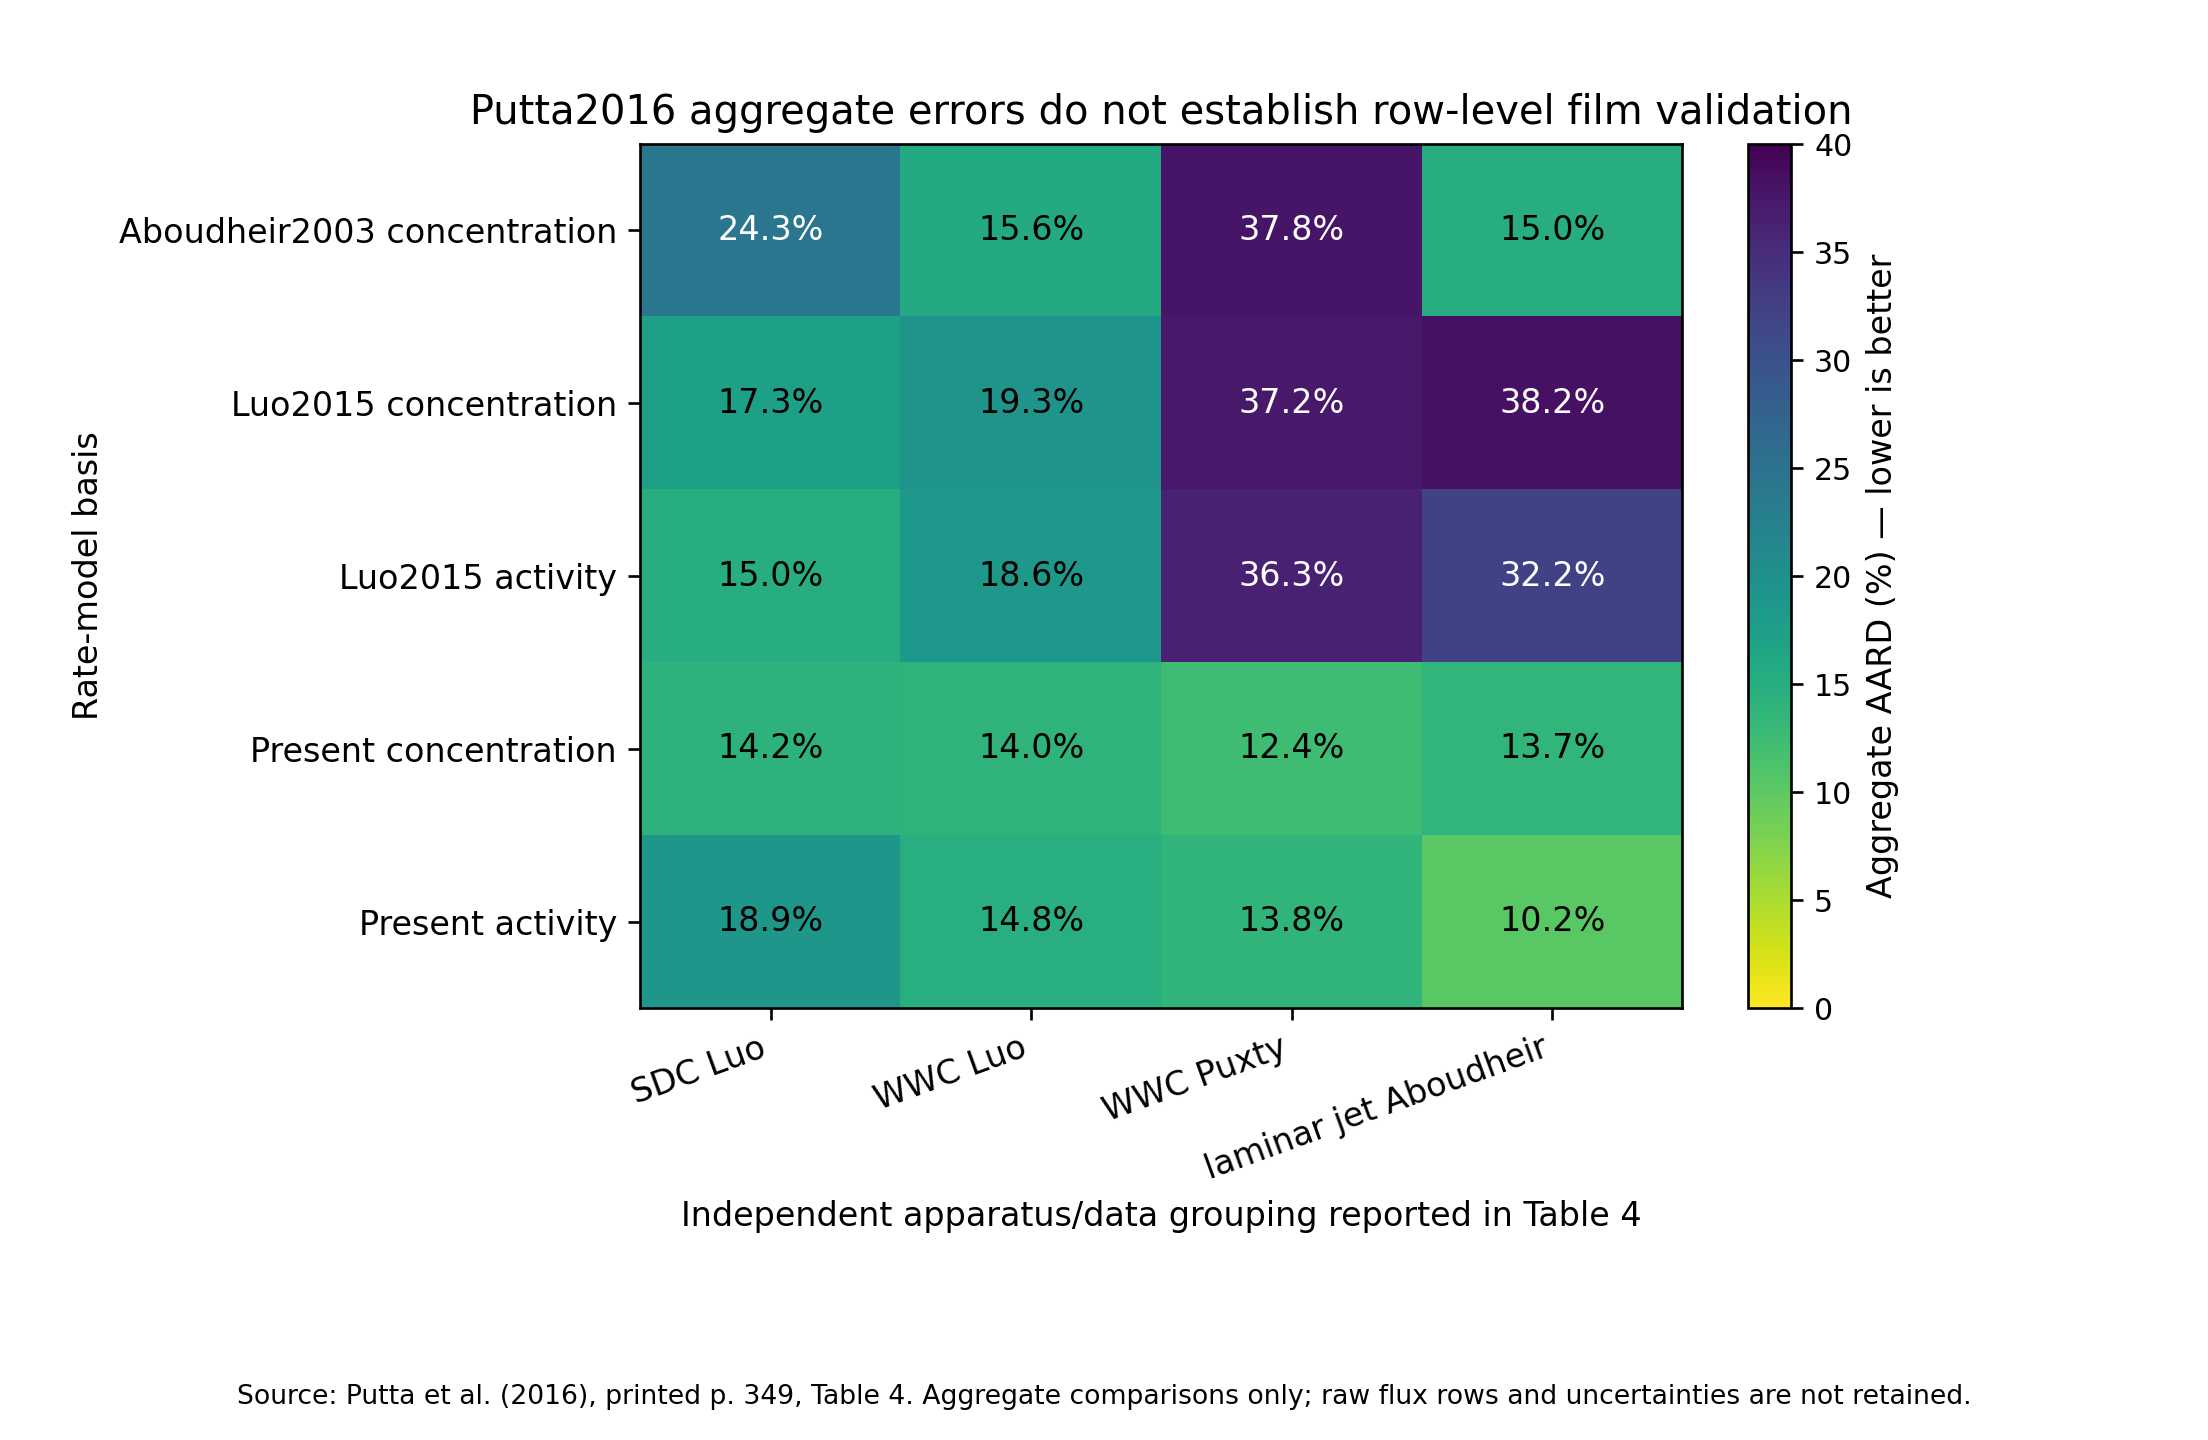
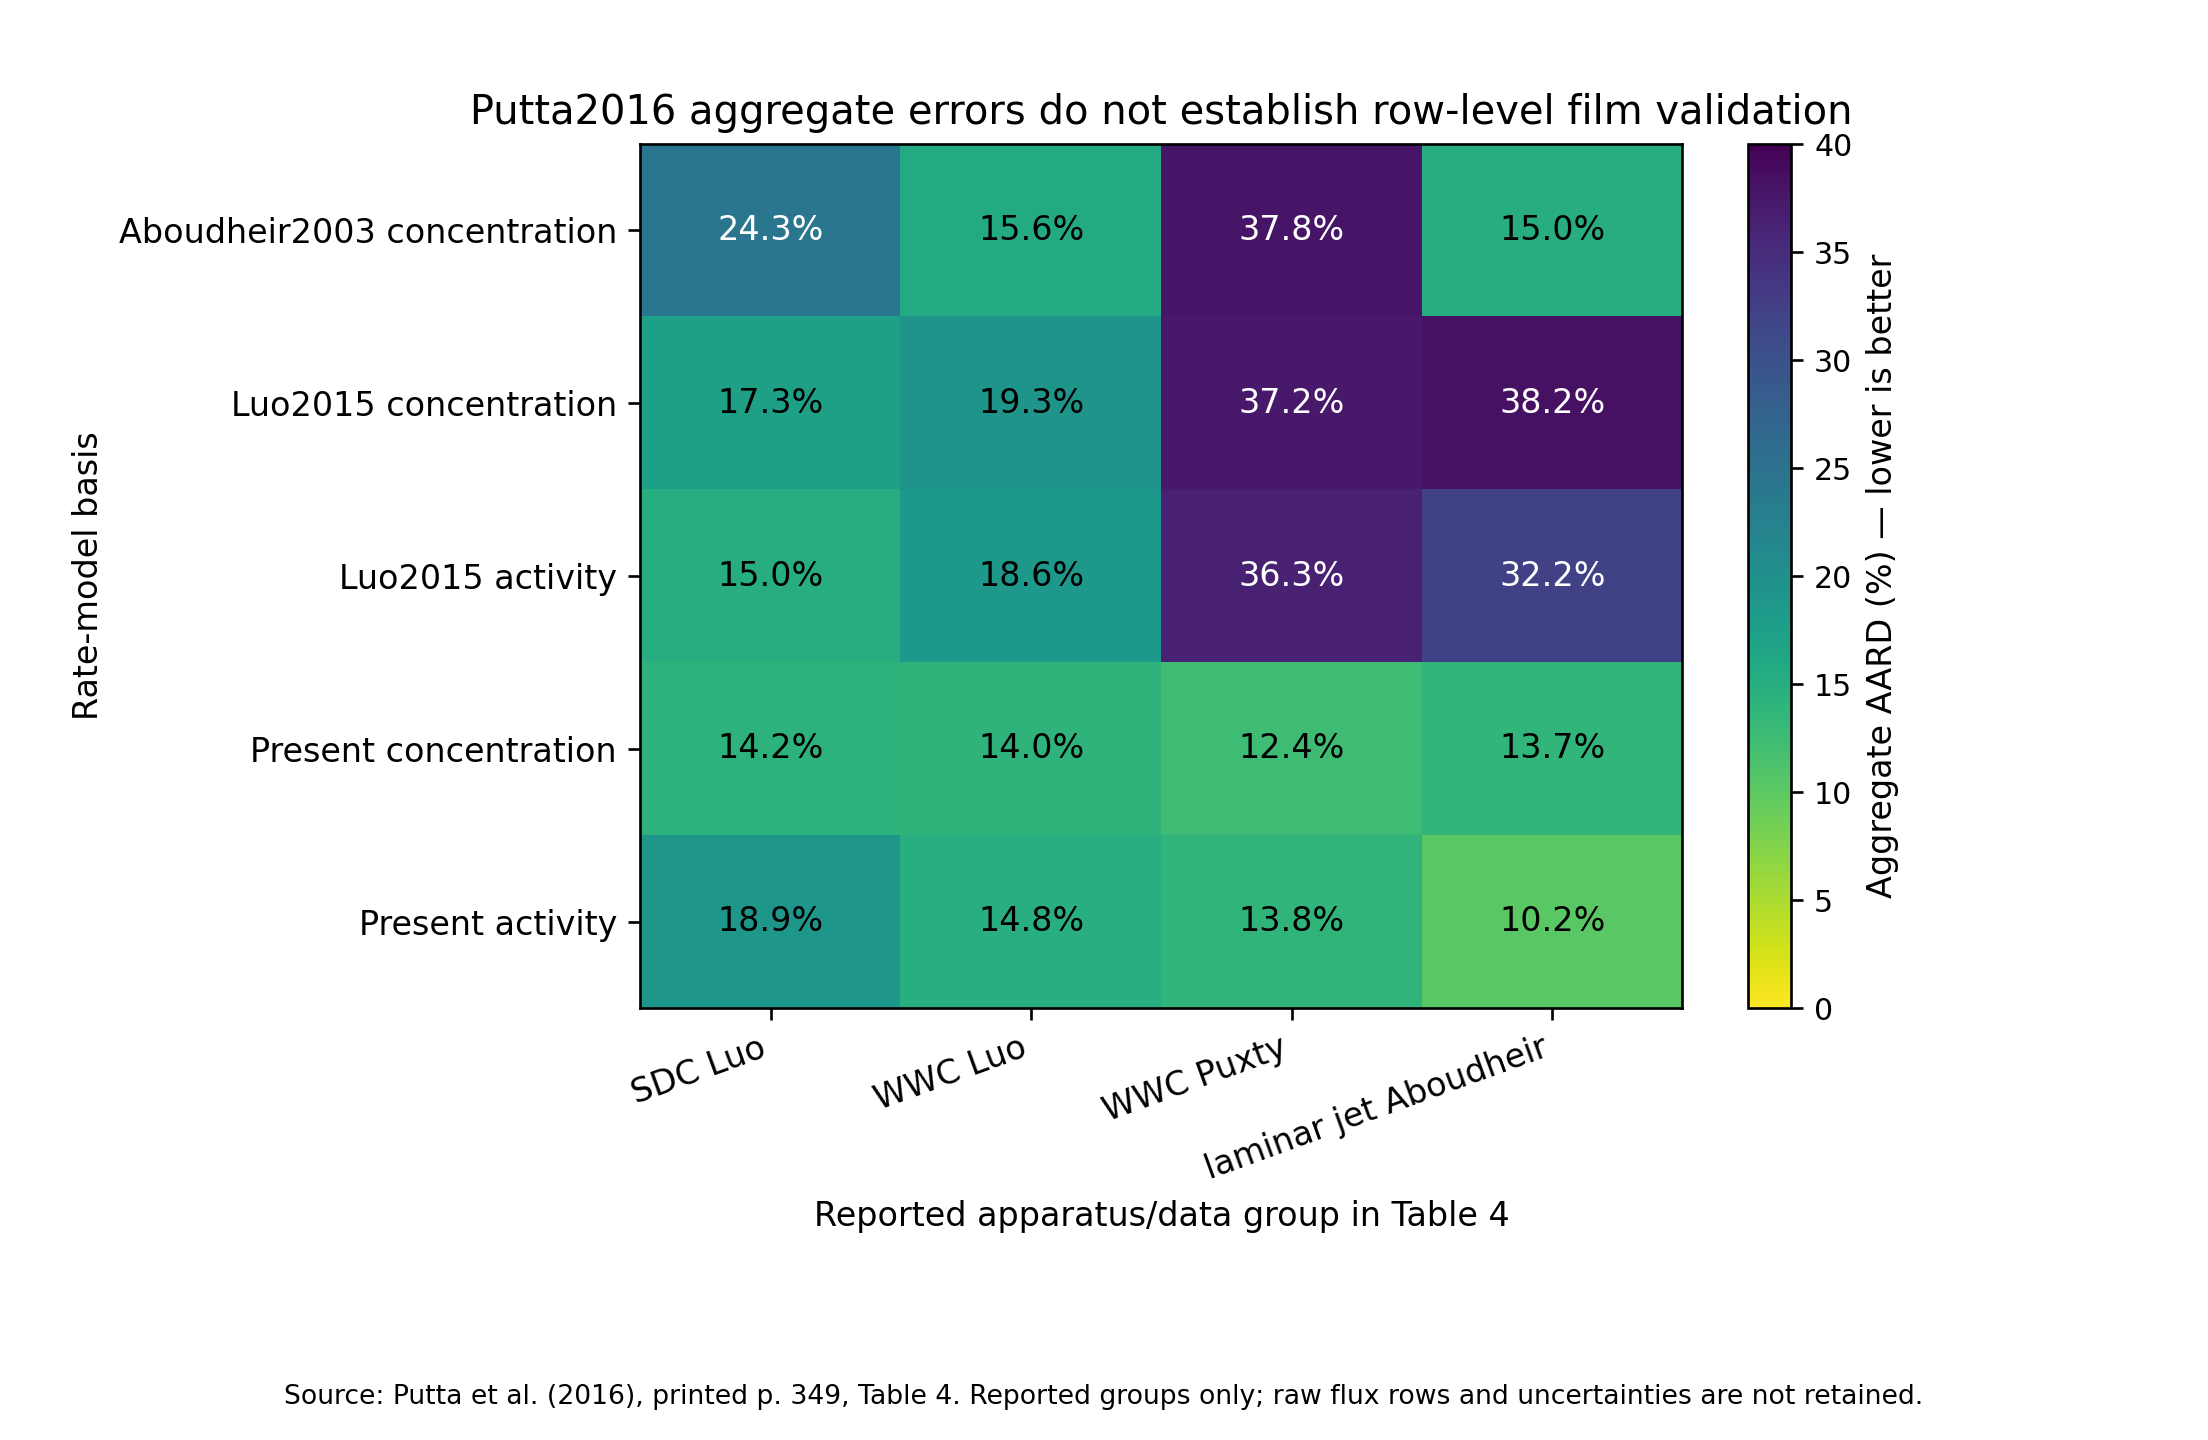
Correct reactive-film evidence provenance

Changed region(s): [[0.125, 0.9375, 0.875, 1.0], [0.3125, 0.8125, 0.7188, 0.875]]

diff --git a/analyses/reactive_film_evidence/scripts/render_putta2016_aard.py b/analyses/reactive_film_evidence/scripts/render_putta2016_aard.py
@@ -21,7 +21,7 @@ MODELS = [
     "Present concentration",
     "Present activity",
 ]
-APPARATUSES = ["SDC Luo", "WWC Luo", "WWC Puxty", "laminar jet Aboudheir"]
+DATA_GROUPS = ["SDC Luo", "WWC Luo", "WWC Puxty", "laminar jet Aboudheir"]
 
 
 def main() -> None:
@@ -34,7 +34,6 @@ def main() -> None:
         raise AssertionError("aggregate evidence must not be relabeled as row-level validation")
 
     by_key = {(row["model"], row["apparatus_or_dataset"]): float(row["value"]) for row in rows}
-    matrix = [[by_key[(model, apparatus)] for apparatus in APPARATUSES] for model in MODELS]
 
     PLOT_DATA.parent.mkdir(parents=True, exist_ok=True)
     FIGURE.parent.mkdir(parents=True, exist_ok=True)
@@ -42,10 +41,11 @@ def main() -> None:
         writer = csv.DictWriter(
             stream,
             fieldnames=["model", "apparatus_or_dataset", "AARD_percent", "source_locator", "evidence_scope"],
+            lineterminator="\n",
         )
         writer.writeheader()
         for model in MODELS:
-            for apparatus in APPARATUSES:
+            for apparatus in DATA_GROUPS:
                 writer.writerow(
                     {
                         "model": model,
@@ -56,13 +56,25 @@ def main() -> None:
                     }
                 )
 
+    expected = {
+        (model, data_group): f"{by_key[(model, data_group)]:.1f}"
+        for model in MODELS
+        for data_group in DATA_GROUPS
+    }
+    with PLOT_DATA.open(newline="") as stream:
+        plotted = list(csv.DictReader(stream))
+    actual = {(row["model"], row["apparatus_or_dataset"]): row["AARD_percent"] for row in plotted}
+    if len(plotted) != 20 or actual != expected:
+        raise AssertionError("plot CSV must retain the exact 20 Table 4 cells")
+    matrix = [[float(actual[(model, data_group)]) for data_group in DATA_GROUPS] for model in MODELS]
+
     fig, ax = plt.subplots(figsize=(9.2, 6.0))
     fig.subplots_adjust(left=0.29, right=0.88, bottom=0.30, top=0.90)
     image = ax.imshow(matrix, cmap="viridis_r", vmin=0, vmax=40, aspect="auto")
-    ax.set_xticks(range(len(APPARATUSES)), APPARATUSES, rotation=20, ha="right")
+    ax.set_xticks(range(len(DATA_GROUPS)), DATA_GROUPS, rotation=20, ha="right")
     ax.set_yticks(range(len(MODELS)), MODELS)
     ax.set_title("Putta2016 aggregate errors do not establish row-level film validation")
-    ax.set_xlabel("Independent apparatus/data grouping reported in Table 4")
+    ax.set_xlabel("Reported apparatus/data group in Table 4")
     ax.set_ylabel("Rate-model basis")
     for y, values in enumerate(matrix):
         for x, value in enumerate(values):
@@ -72,7 +84,7 @@ def main() -> None:
     fig.text(
         0.5,
         0.025,
-        "Source: Putta et al. (2016), printed p. 349, Table 4. Aggregate comparisons only; raw flux rows and uncertainties are not retained.",
+        "Source: Putta et al. (2016), printed p. 349, Table 4. Reported groups only; raw flux rows and uncertainties are not retained.",
         ha="center",
         fontsize=8,
     )

diff --git a/analyses/reactive_film_evidence/README.md b/analyses/reactive_film_evidence/README.md
@@ -5,7 +5,7 @@ This analysis identifies what can presently support a physical, chemical-potenti
 ## Evidence now available
 
 - Putta2016 provides reversible F1/F2 concentration- and activity-form rate laws and Arrhenius fits over its reported temperature, MEA-label, loading, and pressure-driving-force domain. The retained record preserves the printed unit discrepancy rather than silently correcting source metadata. **[verified]**
-- Putta2016 Table 4 provides 20 exact aggregate AARD values across SDC, two WWC data groups, and a laminar-jet group; these compare models but do not expose row-level measured fluxes or uncertainty. **[verified]**
+- Putta2016 Table 4 provides 20 exact aggregate AARD values across SDC, two WWC data groups, and a laminar-jet group; the Luo WWC group was used to estimate the Present models, so these compare reported groups but do not expose row-level measured fluxes or uncertainty. **[verified]**
 - Luo2015 reports 227 WWC/SDC observations and states on printed p. 65 that all raw data are supplementary, but that supplement is not local. **[verified]**
 - Luo2015 Eq. 21 and Eq. 22 and Snijder1993 Table III/Eq. 8 are already reconstructed by Issues 35/42 as scalar transport correlations with their original quantity limitations. **[verified]**
 - Polat2023 Table 2 supplies Arrhenius fits for the self-diffusivity of infinitely dilute CO2 in 10-50 wt% aqueous MEA over 293-353 K; these are tracer/self-diffusion results, not Fick or Maxwell-Stefan coefficients. **[verified]**
@@ -16,19 +16,19 @@ This analysis identifies what can presently support a physical, chemical-potenti
 - Putta et al. (2016), DOI `10.1016/j.ijggc.2016.08.009`: printed pp. 341-342, Eqs. 1-5 and 9-22; printed pp. 345-346, Eqs. I-II; printed p. 349, Table 4. **[verified]**
 - Luo et al. (2015), DOI `10.1016/j.ces.2014.10.013`: printed pp. 59-60 for apparatus/domain; printed p. 61, Eqs. 21-22; printed p. 65 for supplementary raw data. **[verified]**
 - Snijder et al. (1993), DOI `10.1021/je00011a037`: printed p. 477, Table III and Eq. 8; printed p. 479 for concentration extension. **[verified]**
-- Polat et al. (2023), DOI `10.1016/j.fluid.2022.113587`: Table 2, PDF p. 4 (repository PDF page index 4), 293-353 K. **[verified]**
+- Polat et al. (2023), DOI `10.1016/j.fluid.2022.113587`: PDF page 4, Table 2, 293-353 K. **[verified]**
 - Ramezani et al. (2021), DOI `10.1016/j.molliq.2021.115569`, remains a candidate whose quantity and domain have not been inspected locally. **[unknown]**
 
 ## What can be used now
 
-- The Putta F1/F2 forms can drive a finite-rate prototype only after their standard-state mapping is made consistent with the thermodynamic provider; they cannot yet be validated from the retained aggregate AARD table. **[reference-backed]**
-- The Luo/Snijder reduced scalar correlations and Polat self-diffusion fits can define labeled comparator ranges, but converting them into a multicomponent mobility matrix would add unsupported physics. **[reference-backed]**
-- The central figure shows that Table 4 errors depend on both model basis and apparatus/data grouping; it is aggregate model-comparison evidence, not independent row-level film validation. **[verified]**
+- The Putta F1/F2 forms can drive a finite-rate prototype only after their standard-state mapping is made consistent with the thermodynamic provider; they cannot yet be validated from the retained aggregate AARD table. **[inference]**
+- The Luo/Snijder reduced scalar correlations and Polat self-diffusion fits can define labeled comparator ranges, but converting them into a multicomponent mobility matrix would add unsupported physics. **[inference]**
+- The central figure shows that Table 4 errors depend on both model basis and reported apparatus/data group; it is aggregate model-comparison evidence, not row-level film validation. **[verified]**
 
 ## Best next strategy
 
-1. Acquire the exact Luo2015 supplementary file and retain all 227 rows with apparatus membership, units, state variables, and reported measurement accuracy. **[reference-backed]**
-2. Acquire and classify Ramezani2021 and the Polat2023 supplement; use self-diffusion only as tracer evidence unless the source provides a defensible conversion or cross-correlation information. **[reference-backed]**
+1. Acquire the exact Luo2015 supplementary file and retain all 227 rows with apparatus membership, units, state variables, and reported measurement accuracy. **[inference]**
+2. Acquire and classify Ramezani2021 and the Polat2023 supplement; use self-diffusion only as tracer evidence unless the source provides a defensible conversion or cross-correlation information. **[inference]**
 3. Seek loaded-MEA ionic self-diffusion/conductivity/NMR or validated molecular-dynamics evidence for MEAH+ and MEACOO- first, then the inorganic ions; retain uncertainty and composition basis. **[inference]**
 4. Build the smallest symmetric positive-semidefinite mobility closure consistent with those data and electroneutral zero-current transport, and compare it against the existing effective-Fick reduction at identical thermodynamics and kinetics. **[inference]**
 5. Validate against held-out WWC/SDC/laminar-jet flux rows before coupling to the packed column; only then promote parity/residual and sensitivity figures toward the manuscript. **[inference]**
